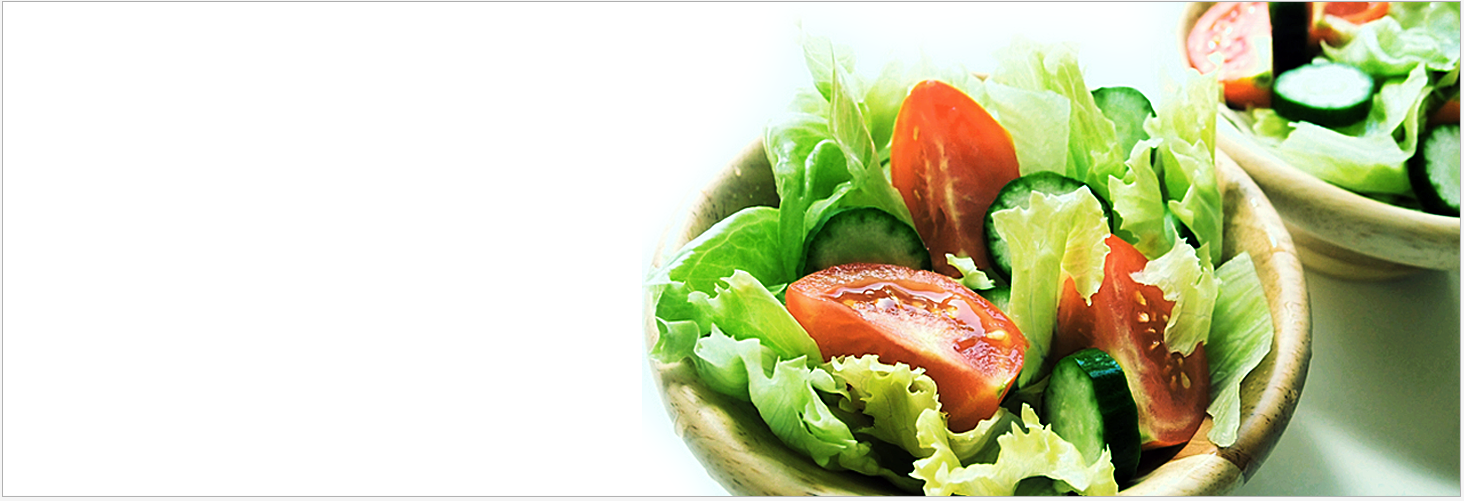
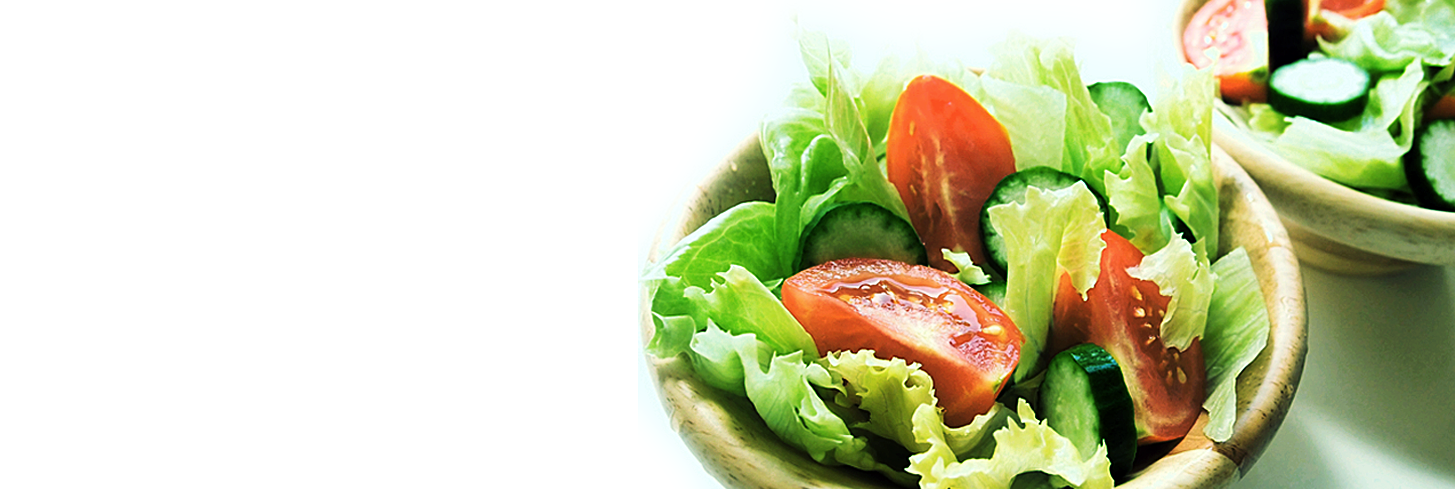
fixed images

Changed region(s): [[0.0, 0.0, 1.0, 1.0], [0.5258, 0.4601, 0.5567, 0.4908]]

diff --git a/public/index.html b/public/index.html
@@ -108,7 +108,7 @@
                     <br>
                     <p>Nourish China is here to help the growing interest in healthy food for the everyday China people - with care and attention to quality and fresh ingredients, at Nourish we plan to lead the way.</p>
                     <br>
-                    <center><img class="img-responsive" src="images/diamond.jpg" /></center>
+                    <center><img class="img-responsive vignette" src="images/vignette1.gif" /></center>
                 </div>
               </div>
             </div>
@@ -165,7 +165,7 @@
                     </p>
                     <p class="notice-text">Please click here at our Gobble website for additional information and to place your order today!</p>
                     <center><a href="/gobble" class="btn btn-explore">explore ></a>
-                    <img class="img-responsive" src="images/diamond.jpg" /></center>
+                    <img class="img-responsive vignette" src="images/vignette1.gif" /></center>
                   </div>
                 </div>
               </div>
@@ -200,7 +200,7 @@
                       Feeding and nourishing the children of our future always has a great feeling. Meals are prepared with utmost care, prepared with a focus on nutrition and taste to enhance the experience and serve the best meal
                       <a href="/schools" class="btn btn-sm btn-explore-01">explore ></a>
                     </p>
-                    <center><img class="img-responsive" src="images/diamond.jpg" /></center>
+                    <center><img class="img-responsive vignette" src="images/vignette1.gif" /></center>
                   </div>
                 </div>
               </div>
@@ -221,7 +221,7 @@
             Balanced meals are prepared and thought out in advance giving the best nutritional balance.
             With introducing better protein based meals with less fat and using the freshest vegetables
             from the western provinces, we combine to offer the best <a href="/factory-canteens" class="btn btn-sm btn-explore-01">explore ></a></p>
-          <center><img class="img-responsive" style="width: 22%;" src="images/diamond01.png" /></center>
+          <center><img class="img-responsive vignette1" src="images/vignette2.gif" /></center>
       </div>
     </div>
   </section>
@@ -243,7 +243,7 @@
             </p>
             <div class="clearfix"></div><div class="clearfix"></div>
             <div class="clearfix"></div>
-            <center><img class="img-responsive" style="width: 22%;" src="images/diamond01.png" /></center>
+            <center><img class="img-responsive vignette1" src="images/vignette2.gif" /></center>
           </div>
         </div>
       </div>
@@ -274,7 +274,7 @@
                       Nourish and DDL currently have a licensed central kitchen in Baoan.  Our facility is 2000 square meters and through this kitchen we have created an additional scale through the use of efficiency, speed, centralised recipe management and allowing us to reduce head count within onsite factories and
                       <a href="/central-kitchen" class="btn btn-sm btn-explore-01">explore ></a>
                     </p>
-                    <center><img class="img-responsive" src="images/diamond.jpg" /></center>
+                    <center><img class="img-responsive vignette" src="images/vignette1.gif" /></center>
                   </div>
                 </div>
               </div>

diff --git a/public/blog.html b/public/blog.html
@@ -99,20 +99,20 @@
   <section id="intro" class="intro-section">
       <div class="container">
         <div class="row">
-          <div class="col-sm-offset-1 col-sm-10">
+          <div class="col-sm-offset-2 col-sm-8">
               <img class="img-responsive" src="http://placehold.it/1000x500" alt="...">
           </div>
         </div>
         <br>
         <div class="row">
-          <div class="col-sm-offset-1 col-sm-10">
+          <div class="col-sm-offset-2 col-sm-8">
             <div class="col-sm-12">
               <!-- <img class="img-responsive title-link" style="width: 35%;" src="images/about-title.png" /> -->
               <h2>Title</h2>
               <br>
               <p>DESCRIPTIONS</p>
               <br>
-              <center><img class="img-responsive" style="width: 10%;"src="images/diamond01.png" /></center>
+              <center><img class="img-responsive vignette1" src="images/vignette2.gif" /></center>
             </div>
           </div>
         </div>

diff --git a/public/central-kitchen.html b/public/central-kitchen.html
@@ -99,20 +99,20 @@
   <section id="intro" class="intro-section">
       <div class="container">
         <div class="row">
-          <div class="col-sm-offset-1 col-sm-10">
+          <div class="col-sm-offset-2 col-sm-8">
               <img class="img-responsive" src="http://placehold.it/1000x500" alt="...">
           </div>
         </div>
         <br>
         <div class="row">
-          <div class="col-sm-offset-1 col-sm-10">
+          <div class="col-sm-offset-2 col-sm-8">
             <div class="col-sm-12">
               <!-- <img class="img-responsive title-link" style="width: 35%;" src="images/about-title.png" /> -->
               <h2>Title</h2>
               <br>
               <p>DESCRIPTIONS</p>
               <br>
-              <center><img class="img-responsive" style="width: 10%;"src="images/diamond01.png" /></center>
+              <center><img class="img-responsive vignette1" src="images/vignette2.gif" /></center>
             </div>
           </div>
         </div>

diff --git a/public/contact.html b/public/contact.html
@@ -99,20 +99,20 @@
   <section id="intro" class="intro-section">
       <div class="container">
         <div class="row">
-          <div class="col-sm-offset-1 col-sm-10">
+          <div class="col-sm-offset-2 col-sm-8">
               <img class="img-responsive" src="http://placehold.it/1000x500" alt="...">
           </div>
         </div>
         <br>
         <div class="row">
-          <div class="col-sm-offset-1 col-sm-10">
+          <div class="col-sm-offset-2 col-sm-8">
             <div class="col-sm-12">
               <!-- <img class="img-responsive title-link" style="width: 35%;" src="images/about-title.png" /> -->
               <h2>Title</h2>
               <br>
               <p>DESCRIPTIONS</p>
               <br>
-              <center><img class="img-responsive" style="width: 10%;"src="images/diamond01.png" /></center>
+              <center><img class="img-responsive vignette1" src="images/vignette2.gif" /></center>
             </div>
           </div>
         </div>

diff --git a/public/cooking.html b/public/cooking.html
@@ -99,20 +99,20 @@
   <section id="intro" class="intro-section">
       <div class="container">
         <div class="row">
-          <div class="col-sm-offset-1 col-sm-10">
+          <div class="col-sm-offset-2 col-sm-8">
               <img class="img-responsive" src="http://placehold.it/1000x500" alt="...">
           </div>
         </div>
         <br>
         <div class="row">
-          <div class="col-sm-offset-1 col-sm-10">
+          <div class="col-sm-offset-2 col-sm-8">
             <div class="col-sm-12">
               <!-- <img class="img-responsive title-link" style="width: 35%;" src="images/about-title.png" /> -->
               <h2>Title</h2>
               <br>
               <p>DESCRIPTIONS</p>
               <br>
-              <center><img class="img-responsive" style="width: 10%;"src="images/diamond01.png" /></center>
+              <center><img class="img-responsive vignette1" src="images/vignette2.gif" /></center>
             </div>
           </div>
         </div>

diff --git a/public/ddl.html b/public/ddl.html
@@ -99,20 +99,20 @@
   <section id="intro" class="intro-section">
       <div class="container">
         <div class="row">
-          <div class="col-sm-offset-1 col-sm-10">
+          <div class="col-sm-offset-2 col-sm-8">
               <img class="img-responsive" src="http://placehold.it/1000x500" alt="...">
           </div>
         </div>
         <br>
         <div class="row">
-          <div class="col-sm-offset-1 col-sm-10">
+          <div class="col-sm-offset-2 col-sm-8">
             <div class="col-sm-12">
               <!-- <img class="img-responsive title-link" style="width: 35%;" src="images/about-title.png" /> -->
               <h2>Title</h2>
               <br>
               <p>DESCRIPTIONS</p>
               <br>
-              <center><img class="img-responsive" style="width: 10%;"src="images/diamond01.png" /></center>
+              <center><img class="img-responsive vignette1" src="images/vignette2.gif" /></center>
             </div>
           </div>
         </div>

diff --git a/public/factory-canteens.html b/public/factory-canteens.html
@@ -99,20 +99,20 @@
   <section id="intro" class="intro-section">
       <div class="container">
         <div class="row">
-          <div class="col-sm-offset-1 col-sm-10">
+          <div class="col-sm-offset-2 col-sm-8">
               <img class="img-responsive" src="http://placehold.it/1000x500" alt="...">
           </div>
         </div>
         <br>
         <div class="row">
-          <div class="col-sm-offset-1 col-sm-10">
+          <div class="col-sm-offset-2 col-sm-8">
             <div class="col-sm-12">
               <!-- <img class="img-responsive title-link" style="width: 35%;" src="images/about-title.png" /> -->
               <h2>Title</h2>
               <br>
               <p>DESCRIPTIONS</p>
               <br>
-              <center><img class="img-responsive" style="width: 10%;"src="images/diamond01.png" /></center>
+              <center><img class="img-responsive vignette1" src="images/vignette2.gif" /></center>
             </div>
           </div>
         </div>

diff --git a/public/gobble.html b/public/gobble.html
@@ -99,20 +99,20 @@
   <section id="intro" class="intro-section">
       <div class="container">
         <div class="row">
-          <div class="col-sm-offset-1 col-sm-10">
+          <div class="col-sm-offset-2 col-sm-8">
               <img class="img-responsive" src="http://placehold.it/1000x500" alt="...">
           </div>
         </div>
         <br>
         <div class="row">
-          <div class="col-sm-offset-1 col-sm-10">
+          <div class="col-sm-offset-2 col-sm-8">
             <div class="col-sm-12">
               <!-- <img class="img-responsive title-link" style="width: 35%;" src="images/about-title.png" /> -->
               <h2>Title</h2>
               <br>
               <p>DESCRIPTIONS</p>
               <br>
-              <center><img class="img-responsive" style="width: 10%;"src="images/diamond01.png" /></center>
+              <center><img class="img-responsive vignette1" src="images/vignette2.gif" /></center>
             </div>
           </div>
         </div>

diff --git a/public/nomnom.html b/public/nomnom.html
@@ -99,20 +99,20 @@
   <section id="intro" class="intro-section">
       <div class="container">
         <div class="row">
-          <div class="col-sm-offset-1 col-sm-10">
+          <div class="col-sm-offset-2 col-sm-8">
               <img class="img-responsive" src="http://placehold.it/1000x500" alt="...">
           </div>
         </div>
         <br>
         <div class="row">
-          <div class="col-sm-offset-1 col-sm-10">
+          <div class="col-sm-offset-2 col-sm-8">
             <div class="col-sm-12">
               <!-- <img class="img-responsive title-link" style="width: 35%;" src="images/about-title.png" /> -->
               <h2>Title</h2>
               <br>
               <p>DESCRIPTIONS</p>
               <br>
-              <center><img class="img-responsive" style="width: 10%;"src="images/diamond01.png" /></center>
+              <center><img class="img-responsive vignette1" src="images/vignette2.gif" /></center>
             </div>
           </div>
         </div>

diff --git a/public/nutritions.html b/public/nutritions.html
@@ -99,20 +99,20 @@
   <section id="intro" class="intro-section">
       <div class="container">
         <div class="row">
-          <div class="col-sm-offset-1 col-sm-10">
+          <div class="col-sm-offset-2 col-sm-8">
               <img class="img-responsive" src="http://placehold.it/1000x500" alt="...">
           </div>
         </div>
         <br>
         <div class="row">
-          <div class="col-sm-offset-1 col-sm-10">
+          <div class="col-sm-offset-2 col-sm-8">
             <div class="col-sm-12">
               <!-- <img class="img-responsive title-link" style="width: 35%;" src="images/about-title.png" /> -->
               <h2>Title</h2>
               <br>
               <p>DESCRIPTIONS</p>
               <br>
-              <center><img class="img-responsive" style="width: 10%;"src="images/diamond01.png" /></center>
+              <center><img class="img-responsive vignette1" src="images/vignette2.gif" /></center>
             </div>
           </div>
         </div>

diff --git a/public/schools.html b/public/schools.html
@@ -99,20 +99,20 @@
   <section id="intro" class="intro-section">
       <div class="container">
         <div class="row">
-          <div class="col-sm-offset-1 col-sm-10">
+          <div class="col-sm-offset-2 col-sm-8">
               <img class="img-responsive" src="http://placehold.it/1000x500" alt="...">
           </div>
         </div>
         <br>
         <div class="row">
-          <div class="col-sm-offset-1 col-sm-10">
+          <div class="col-sm-offset-2 col-sm-8">
             <div class="col-sm-12">
               <!-- <img class="img-responsive title-link" style="width: 35%;" src="images/about-title.png" /> -->
               <h2>Title</h2>
               <br>
               <p>DESCRIPTIONS</p>
               <br>
-              <center><img class="img-responsive" style="width: 10%;"src="images/diamond01.png" /></center>
+              <center><img class="img-responsive vignette1" src="images/vignette2.gif" /></center>
             </div>
           </div>
         </div>

diff --git a/public/services.html b/public/services.html
@@ -99,20 +99,20 @@
   <section id="intro" class="intro-section">
       <div class="container">
         <div class="row">
-          <div class="col-sm-offset-1 col-sm-10">
+          <div class="col-sm-offset-2 col-sm-8">
               <img class="img-responsive" src="http://placehold.it/1000x500" alt="...">
           </div>
         </div>
         <br>
         <div class="row">
-          <div class="col-sm-offset-1 col-sm-10">
+          <div class="col-sm-offset-2 col-sm-8">
             <div class="col-sm-12">
               <!-- <img class="img-responsive title-link" style="width: 35%;" src="images/about-title.png" /> -->
               <h2>Title</h2>
               <br>
               <p>DESCRIPTIONS</p>
               <br>
-              <center><img class="img-responsive" style="width: 10%;"src="images/diamond01.png" /></center>
+              <center><img class="img-responsive vignette1" src="images/vignette2.gif" /></center>
             </div>
           </div>
         </div>
